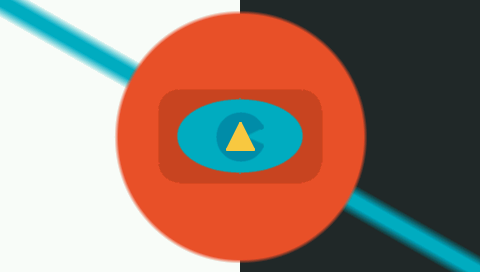
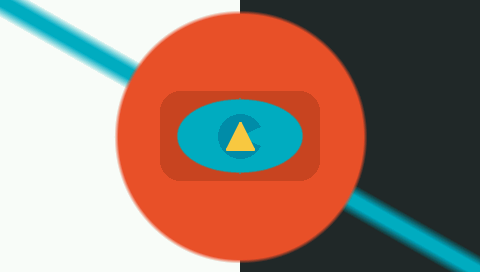
WI17390 Changes following code review - Simplified PrimitivesAntiAliased example by removing code emulating antialiased primitives that are not yet available

diff --git a/MicroUI-Get-Started/src/main/java/com/microej/howto/microui/drawing/PrimitivesAntiAliased.java b/MicroUI-Get-Started/src/main/java/com/microej/howto/microui/drawing/PrimitivesAntiAliased.java
@@ -89,9 +89,6 @@ public class PrimitivesAntiAliased extends Displayable {
 		}
 
 		{
-			//the rounded rectangle is drawn inside the circle, which has a unified background
-			//to speed up antialiasing operations, we inform the GraphicsContext of the background color
-			g.setBackgroundColor(MicroEJColors.CORAL);
 			// draw a rounded rectangle at the center of the area
 			g.setColor(MicroEJColors.POMEGRANATE);
 
@@ -108,68 +105,8 @@ public class PrimitivesAntiAliased extends Displayable {
 			final int x = displayCenterX - rectangleWidth / 2;
 			final int y = displayCenterY - rectangleHeight / 2;
 			
-			{ // antialiased bordering is done first
-
-				final int halfRectangleWidth = rectangleWidth/2;
-				final int halfRectangleHeight = rectangleHeight/2;
-
-				final int halfArcWidth = arcWidth/2;
-				final int halfArcHeight = arcHeight/2;
-
-				final int horizontalSidesStartX = displayCenterX - halfRectangleWidth + halfArcWidth;
-				final int horizontalSidesEndX = displayCenterX + halfRectangleWidth - halfArcWidth;
-				final int horizontalSidesStartY = displayCenterY - halfRectangleHeight;
-				final int horizontalSidesEndY = displayCenterY + halfRectangleHeight;
-
-				final int verticalSidesStartY = displayCenterY - halfRectangleHeight + halfArcHeight;
-				final int verticalSidesEndY = displayCenterY + halfRectangleHeight - halfArcHeight;
-				final int verticalSidesStartX = displayCenterX - halfRectangleWidth;
-				final int verticalSidesEndX = displayCenterX + halfRectangleWidth;
-
-				final int topLeftEllipseX = displayCenterX - halfRectangleWidth;
-				final int topLeftEllipseY = displayCenterY - halfRectangleHeight;
-
-				final int bottomLeftEllipseX = displayCenterX - halfRectangleWidth;
-				final int bottomLeftEllipseY = displayCenterY + halfRectangleHeight - arcHeight;
-						
-				final int topRightEllipseX = displayCenterX + halfRectangleWidth - arcWidth;
-				final int topRightEllipseY = displayCenterY - halfRectangleHeight;
-
-				final int bottomRightEllipseX = displayCenterX + halfRectangleWidth - arcWidth;
-				final int bottomRightEllipseY = displayCenterY + halfRectangleHeight - arcHeight;
-
-				//for antialiased corners, use less thickness when drawing ellipses so as to minimize pixel artifacts on junction points with straight lines
-				AntiAliasedShapes.Singleton.setThickness(1);
-				AntiAliasedShapes.Singleton.setFade(1);
-
-				//top, bottom, left and right corners
-				AntiAliasedShapes.Singleton.drawEllipse(g, topLeftEllipseX, topLeftEllipseY, arcWidth, arcHeight);
-				AntiAliasedShapes.Singleton.drawEllipse(g, bottomLeftEllipseX, bottomLeftEllipseY, arcWidth, arcHeight);
-				AntiAliasedShapes.Singleton.drawEllipse(g, topRightEllipseX, topRightEllipseY, arcWidth, arcHeight);
-				AntiAliasedShapes.Singleton.drawEllipse(g, bottomRightEllipseX, bottomRightEllipseY, arcWidth, arcHeight);
-
-				//for antialiased straight lines, use slightly more thickness
-				AntiAliasedShapes.Singleton.setThickness(2);
-				AntiAliasedShapes.Singleton.setFade(2);
-				
-				//top , bottom, left and right straight lines
-				AntiAliasedShapes.Singleton.drawLine(g, horizontalSidesStartX, horizontalSidesStartY,horizontalSidesEndX, horizontalSidesStartY);
-				AntiAliasedShapes.Singleton.drawLine(g, horizontalSidesStartX, horizontalSidesEndY,horizontalSidesEndX, horizontalSidesEndY);
-				AntiAliasedShapes.Singleton.drawLine(g, verticalSidesStartX, verticalSidesStartY,verticalSidesStartX, verticalSidesEndY);
-				AntiAliasedShapes.Singleton.drawLine(g, verticalSidesEndX, verticalSidesStartY,verticalSidesEndX, verticalSidesEndY);
-
-				//hide pixel artifacts between antialiased corners and rounded rectangle regular corners by drawing ellipses over them
-				//'cheat' on top left corner because the accumulated rounding makes the top left too close to the rounded rectangle center
-				g.fillEllipse(topLeftEllipseX -1 , topLeftEllipseY -1 , arcWidth, arcHeight);
-				g.fillEllipse(bottomLeftEllipseX, bottomLeftEllipseY, arcWidth, arcHeight);
-				g.fillEllipse(topRightEllipseX, topRightEllipseY, arcWidth, arcHeight);
-				g.fillEllipse(bottomRightEllipseX, bottomRightEllipseY, arcWidth, arcHeight);
-
-			}
-
-			//draw rounded rectangle inside its antialiased borders
 			g.fillRoundRect(x, y, rectangleWidth, rectangleHeight, arcWidth, arcHeight);
-
+			//no primitives for antialiased rounded rectangle available yet
 		}
 
 		{
@@ -217,44 +154,9 @@ public class PrimitivesAntiAliased extends Displayable {
 			final int y = displayCenterY - radius;
 			final int startAngle = 25;
 			final int arcAngle = 310;
-			final int endAngle = startAngle + arcAngle;
 
-			{ // antialiased bordering
-				// The background is made up of a single solid color,
-				// so we can optimize the drawing performed by AntiAliasedShapes
-				// using g.setBackgroundColor(...) API.
-				// This will avoid reading the color of each pixel in memory
-				// before merging it with the foreground color.
-				g.setBackgroundColor(MicroEJColors.TURQUOISE);
-
-				final int thicknessCompensation = 1;
-				final int thickness = 2;
-
-				// specify line thickness and fade
-				AntiAliasedShapes.Singleton.setThickness(thickness);
-				AntiAliasedShapes.Singleton.setFade(2);
-
-				AntiAliasedShapes.Singleton.drawCircleArc(g, x, y, diameter, startAngle , arcAngle);
-				// The background is not homogeneous anymore, so we can not reuse the optimization.
-				g.removeBackgroundColor();
-
-				g.fillCircleArc(x, y, diameter   , startAngle  , arcAngle );
-
-
-				double startAngleXOffset = (radius + thickness/2) * Math.sin(Math.toRadians(startAngle - thicknessCompensation + 90 ));
-				double startAngleYOffset = (radius + thickness/2) * Math.cos(Math.toRadians(startAngle - thicknessCompensation + 90 ));
-
-				double endAngleXOffset = (radius + thickness/2) * Math.sin(Math.toRadians(endAngle + thicknessCompensation + 90 ));
-				double endAngleYOffset = (radius + thickness/2) * Math.cos(Math.toRadians(endAngle + thicknessCompensation + 90 ));
-
-				//g.setColor(MicroEJColors.POMEGRANATE);
-				AntiAliasedShapes.Singleton.drawLine(g, displayCenterX, displayCenterY,
-						(int) (displayCenterX + startAngleXOffset), (int) (displayCenterY + startAngleYOffset));
-				AntiAliasedShapes.Singleton.drawLine(g, displayCenterX, displayCenterY,
-						(int) (displayCenterX + endAngleXOffset), (int) (displayCenterY + endAngleYOffset));
-
-			}
-
+			g.fillCircleArc(x, y, diameter, startAngle, arcAngle);
+			//no primitives for antialiased circle arc available yet
 		}
 
 		{ // draw a triangle at the center of the area
@@ -273,6 +175,8 @@ public class PrimitivesAntiAliased extends Displayable {
 			g.fillPolygon(xys);
 
 			{ // antialiased bordering
+				// The background is not homogeneous anymore, so we can not reuse the optimization.
+				g.removeBackgroundColor();
 				// specify line thickness
 				AntiAliasedShapes.Singleton.setThickness(2);
 				// specify line thickness

diff --git a/MicroUI-Get-Started/CHANGELOG.md b/MicroUI-Get-Started/CHANGELOG.md
@@ -12,7 +12,7 @@ Bugfixes:
   * List here the bug fixes.
 -->
   
-## 1.0.1 (2016-09-30)
+## 1.0.1 (2016-10-03)
 Features:
   * Bigger font size for the following samples
   	* [InputEvents](/MicroUI-Get-Started/src/main/java/com/microej/howto/microui/events/InputEvents.java)
@@ -21,7 +21,7 @@ Features:
   	* [DeformedImages(/MicroUI-Get-Started/src/main/java/com/microej/howto/microui/image/DeformedImages.java)
   	* [PictosWithCustomFont](/MicroUI-Get-Started/src/main/java/com/microej/howto/microui/font/PictosWithCustomFont.java)
   	* [TilingWithImages](/MicroUI-Get-Started/src/main/java/com/microej/howto/microui/image/TilingWithImages.java)
-  * Fixed some pixel artifacts in [PrimitivesAntiAliased](/MicroUI-Get-Started/src/main/java/com/microej/howto/microui/drawing/PrimitivesAntiAliased.java)
+  * Simplified [PrimitivesAntiAliased](/MicroUI-Get-Started/src/main/java/com/microej/howto/microui/drawing/PrimitivesAntiAliased.java) example by removing code emulating antialiased primitives that are not yet available
   * Use square tiles in [TilingWithImages](/MicroUI-Get-Started/src/main/java/com/microej/howto/microui/image/TilingWithImages.java)
   * Use float division in [ScaledImages](/MicroUI-Get-Started/src/main/java/com/microej/howto/microui/image/ScaledImages.java) to ensure scaling factor is non-zero when reducing, but round scaling factor when enlarging for better rendering
 
